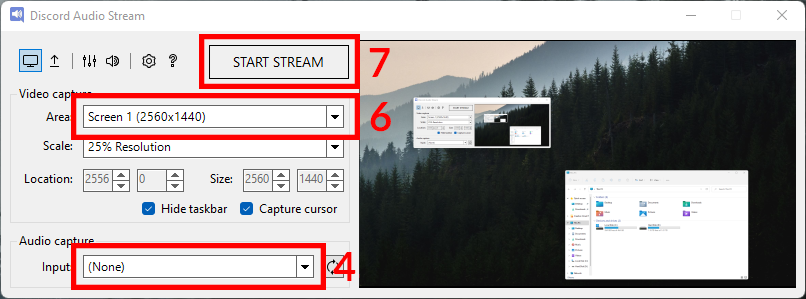
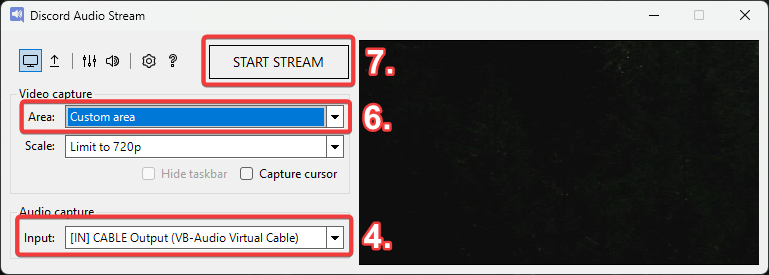
Improve README

diff --git a/README.md b/README.md
@@ -67,57 +67,67 @@ The following steps depend on what you want to do.
 <summary><b>Stream the entire desktop with audio</b></summary>
 <br>
 
-1. Decide for which programs you want to actually share the audio.
+1. Decide which programs you want to share the audio from.
 
-    **Tip:** your answer should never be *"all of them"*. You should, at least, exclude Discord (otherwise, the viewers of your stream will hear themselves).
+    **Tip:** your answer should never be *"all of them"*. At least, you should exclude Discord (otherwise, the viewers of your stream will hear themselves).
     
     > **Update:** Discord now seems to create 2 outputs: one for the call audio (voices of the call members) and another for the media audio (videos sent in a text channel). This means that you are now able to stream the Discord window (for example, to group watch videos from a text channel) without the viewers hearing themselves. You need to determine which of the 2 outputs is the media audio and only share that one (do not include the call audio).
     
-2. Open the volume mixer. You can do this from the DiscordAudioStream window by using `Ctrl+V` or clicking the mixer icon: ![Volume mixer icon - Light theme](docs/img/mixer-light.png#gh-light-mode-only)![Volume mixer icon - Dark theme](docs/img/mixer-dark.png#gh-dark-mode-only).
+2. Open the Windows volume mixer. You can do this from the DiscordAudioStream window by using `Ctrl+V` or clicking the mixer icon: [<img src="docs/img/mixer-light.png" align="top"></img>](#gh-light-mode-only)[<img src="docs/img/mixer-dark.png" align="top"></img>](#gh-dark-mode-only).
 
-3. *For each* of the programs whose audio you want to share, change its *output* device from "Default" to another device (that you are not currently using). For example, if you have Steam installed you should have a virtual audio device called "Steam Streaming Speakers" that you can use (unless you are using it for other purposes).
+3. *For each* of the programs whose audio you want to share, change its *output* device from "Default" to another device (one that you are not currently using). For example, if you have Steam installed you should have a virtual audio device called "Steam Streaming Speakers" that you can use (unless you are using it for other purposes).
 
     - Set the output of *all* the desired programs to **the same** audio device.
     - Don't worry if you stop hearing the audio from the programs you are sharing. Later you will be able to hear them again.
-    - Make sure that there are no other programs outputting audio to the device you selected. Everything that gets output to this device will be shared.
+    - Make sure that there are no other programs outputting audio to the device you selected. Everything that gets sent to this device will be shared with your viewers.
 
     <br>
     <details>
     <summary>I want to use an audio capture card</summary>
-        Capture cards and microphones are audio input devices, but DiscordAudioStream only shows output devices by default. Open DiscordAudioStream settings > Debug and enable "Show audio input devices". You should now see your capture cards and microphones in the audio capture dropdown with the <code>[IN]</code> prefix.
-        <br>
-        Keep in mind that Discord already shares your microphone when you enter a call, so you don't need to capture it in DiscordAudioStream.
+
+    Capture cards and microphones are audio input devices, but DiscordAudioStream only shows output devices by default. Open DiscordAudioStream settings [<img src="docs/img/settings-light.png" align="top"></img>](#gh-light-mode-only)[<img src="docs/img/settings-dark.png" align="top"></img>](#gh-dark-mode-only) > Debug and enable "Show audio input devices". You should now see your capture cards and microphones in the audio capture dropdown (input devices have the `[IN]` prefix).  
+    Keep in mind that Discord already shares your microphone when you enter a call, so you don't need to capture it in DiscordAudioStream.
+
     </details>
-    <br>
     <details>
     <summary>I don't have any unused audio device!</summary>
-        You can use <a href="https://vb-audio.com/Cable/">VB-CABLE</a>, which creates 2 virtual audio devices: <code>CABLE Input</code> (virtual output device) and <code>CABLE Output</code> (virtual microphone). Set the output of the programs you want to capture to <code>CABLE Input</code> and try to capture <code>VB-Audio Virtual Cable</code> in DiscordAudioStream (see step 4 below).
-        <br>
-        When you start capturing the audio in step 7, you may encounter an error. If this happens, you will need to open DiscordAudioStream settings > Debug and enable "Show audio input devices". Go to the audio capture dropdown and capture <code>[IN] VB-Audio Virtual Cable</code> instead.
+
+    You can use [VB-CABLE](https://vb-audio.com/Cable/), which creates 2 virtual audio devices: `CABLE Input` (virtual output device) and `CABLE Output` (virtual microphone). Set the output of the programs you want to capture to `CABLE Input` and try to capture `CABLE Input (VB-Audio Virtual Cable)` in DiscordAudioStream (see step 4 below).  
+    When you start capturing the audio in step 7, you may encounter an error. If this happens, you will need to open DiscordAudioStream settings [<img src="docs/img/settings-light.png" align="top"></img>](#gh-light-mode-only)[<img src="docs/img/settings-dark.png" align="top"></img>](#gh-dark-mode-only) > Debug and enable "Show audio input devices". Go back to the audio capture dropdown and capture `[IN] CABLE Output (VB-Audio Virtual Cable)` instead.
+
     </details>
-    <br>
     
     ![Change audio device in volume mixer](docs/img/audio-device.png)
 
 4. In the *Audio capture input* dropdown, select the (previously unused) audio device that you have chosen in step 3.
 
-5. (Optional) In the upcoming steps we will create a new window with the same size as the screen you are sharing. In order to make its size more manageable, you may want to change the *Video capture scale* dropdown to 50%.
+5. (Optional) You can use the *Video capture scale* dropdown to change the size of the output window (see step 7), in order to make it easier to move around.
+   - For the best visual results, I strongly recommend using the default value (720p), or 1080p for Discord Nitro users. Using a small scale can make the Discord stream look blurry.
+   - Changing this setting **will NOT** make the video capture smoother or more efficient: this is only a downscaling performed *after* the video has been captured at full size.
 
-6. In the *Video capture area* dropdown, select the screen you want to share.
+6. In the *Video capture area* dropdown, select the screen or window you want to share.
 
 7. Click the *Start Stream* button. This will create a new window. You should now be able to hear the audio from the programs you stopped hearing in step 3.
 
-8. In Discord, select "Share Your Screen". This will show a list of open windows. Select the window called "Discord Audio Stream" (the one that was created in step 7).
+   ![Video and audio dropdowns](docs/img/dropdowns.png)
 
-    - In DiscordAudioStream settings, you can change the *Stream title* (the default value is "Discord Audio Stream"). If you have changed this setting, select the window with the title you have chosen instead. Discord usually doesn't show this title to the viewers, so you can set it to something like "⚠THIS WINDOW⚠" to make finding the window easier.
+8. In Discord, select "Share Your Screen". This will show a list of open windows. Select the window called "Discord Audio Stream" (the output window that was created in step 7).
+
+    - In DiscordAudioStream settings [<img src="docs/img/settings-light.png" align="top"></img>](#gh-light-mode-only)[<img src="docs/img/settings-dark.png" align="top"></img>](#gh-dark-mode-only), you can change the *Stream title* (the default value is "Discord Audio Stream"). If you have changed this setting, select the window with the title you have chosen instead. Discord usually doesn't show this title to the viewers, so you can set it to something like "⚠THIS⚠" to make the window easier to find.
 
 9. You are now sharing your screen with the audio from the selected programs. When you are done, you can close DiscordAudioStream.
 
-    - **Very important:** remember to restore the output device of your programs to "Default". Otherwise, you won't be able to hear their audio.
-    - Keep in mind that if you minimize the window that was created in step 7, your Discord stream will probably be paused. You may want to hide this window behind other windows, without minimizing it.
+    - **Very important:** remember to restore the output device of your programs to "Default". Otherwise, you won't be able to hear their audio unless DiscordAudioStream is running.
 
+**Keep in mind:**
+   
+- If you minimize the DiscordAudioStream window (created in step 7), your Discord stream will be paused. You may want to hide this window behind other windows, without minimizing it.
 
-    ![Video and audio dropdowns](docs/img/dropdowns.png)
+- You might see 2 cursors in your stream:
+  - Cursor added by DiscordAudioStream (if the *Show cursor* option is enabled): shows the correct mouse location.
+  - Cursor added by Discord: shows the mouse location relative to the streamed DiscordAudioStream window.
+
+  The solution would be to disable cursor capture in Discord, but this setting currently doesn't exist. You can work around this by moving the DiscordAudioStream window mostly off-screen, where the cursor won't be hovering it (first go to DiscordAudioStream settings [<img src="docs/img/settings-light.png" align="top"></img>](#gh-light-mode-only)[<img src="docs/img/settings-dark.png" align="top"></img>](#gh-dark-mode-only) > Debug and make sure that "Force screen redraw" is enabled).
 
 </details>
 <br>
@@ -137,7 +147,7 @@ First, follow steps 1-4 above (expand the "Stream the entire desktop with audio"
 > 
 > Then, the programs for which you want to share the audio are 1. the game and 2. Google Chrome. Do not worry about the microphone, since Discord already shares it when you enter a call.
 
-Now follow this steps:
+Now follow these steps:
 
 5. In OBS, right-click the preview and select "Windowed Projector (Preview)". This will create a new window. You can now minimize OBS (but not the preview window). You may want to make this window slightly bigger, in order to improve video quality.
 
@@ -147,12 +157,21 @@ Now follow this steps:
 
 8. In Discord, select "Share Your Screen". This will show a list of open windows. Select the window called "Discord Audio Stream" (the one that was created in step 7).
 
-    - In DiscordAudioStream settings, you can change the *Stream title* (the default value is "Discord Audio Stream"). If you have changed this setting, select the window with the title you have chosen instead. Discord usually doesn't show this title to the viewers, so you can set it to something like "⚠THIS WINDOW⚠" to make finding the window easier.
+    - In DiscordAudioStream settings [<img src="docs/img/settings-light.png" align="top"></img>](#gh-light-mode-only)[<img src="docs/img/settings-dark.png" align="top"></img>](#gh-dark-mode-only), you can change the *Stream title* (the default value is "Discord Audio Stream"). If you have changed this setting, select the window with the title you have chosen instead. Discord usually doesn't show this title to the viewers, so you can set it to something like "⚠THIS⚠" to make the window easier to find.
 
 9. You are now sharing your OBS composition with the audio from the selected programs. When you are done, you can close DiscordAudioStream.
 
-    - **Very important:** remember to restore the output device of your programs to "Default". Otherwise, you won't be able to hear their audio.
-    - Keep in mind that if you minimize the window that was created in step 7, your Discord stream will probably be paused. You may want to hide this window behind other windows, without minimizing it.
+    - **Very important:** remember to restore the output device of your programs to "Default". Otherwise, you won't be able to hear their audio unless DiscordAudioStream is running.
+
+**Keep in mind:**
+   
+- If you minimize the DiscordAudioStream window (created in step 7), your Discord stream will be paused. You may want to hide this window behind other windows, without minimizing it.
+
+- You might see 2 cursors in your stream:  
+  - Cursor added by DiscordAudioStream (if the *Show cursor* option is enabled): shows the correct mouse location.
+  - Cursor added by Discord: shows the mouse location relative to the streamed DiscordAudioStream window.
+  
+  The solution would be to disable cursor capture in Discord, but this setting currently doesn't exist. You can work around this by moving the DiscordAudioStream window mostly off-screen, where the cursor won't be hovering it (first go to DiscordAudioStream settings [<img src="docs/img/settings-light.png" align="top"></img>](#gh-light-mode-only)[<img src="docs/img/settings-dark.png" align="top"></img>](#gh-dark-mode-only) > Debug and make sure that "Force screen redraw" is enabled).
 
 </details>
 <br>
@@ -161,7 +180,7 @@ Now follow this steps:
 
 ## Changing the capture method
 
-You can change which API is used for capturing video by going to Settings ![Settings icon - Light theme](docs/img/settings-light.png#gh-light-mode-only)![Settings icon - Dark theme](docs/img/settings-dark.png#gh-dark-mode-only) > Capture.
+You can change which API is used for capturing video by going to Settings [<img src="docs/img/settings-light.png" align="top"></img>](#gh-light-mode-only)[<img src="docs/img/settings-dark.png" align="top"></img>](#gh-dark-mode-only) > Capture.
 
 Read [this document](/docs/CaptureMethods.md) for more information about the pros and cons of each method. 
 
@@ -170,7 +189,7 @@ Read [this document](/docs/CaptureMethods.md) for more information about the pro
 If the program crashes, it will attempt to generate a trace file called `DiscordAudioStream_stack_trace.txt`. This file will be located in the same folder as your executable (`DiscordAudioStream.exe`).
 Create a [new issue](https://github.com/p-rivero/DiscordAudioStream/issues/new) and make sure to attach your trace file to help me solve your crash more easily.
 
-If the stack trace is not generated automatically, go to Settings ![Settings icon - Light theme](docs/img/settings-light.png#gh-light-mode-only)![Settings icon - Dark theme](docs/img/settings-dark.png#gh-dark-mode-only) > Debug and enable *Output log file*.
+If the stack trace is not generated automatically, go to Settings [<img src="docs/img/settings-light.png" align="top"></img>](#gh-light-mode-only)[<img src="docs/img/settings-dark.png" align="top"></img>](#gh-dark-mode-only) > Debug and enable *Output log file*.
 Close and reopen the program for this change to take effect.
 
 When this option is active, your actions inside the program are logged to a file called `DiscordAudioStream_log.txt` (also located in the same folder as the executable).
